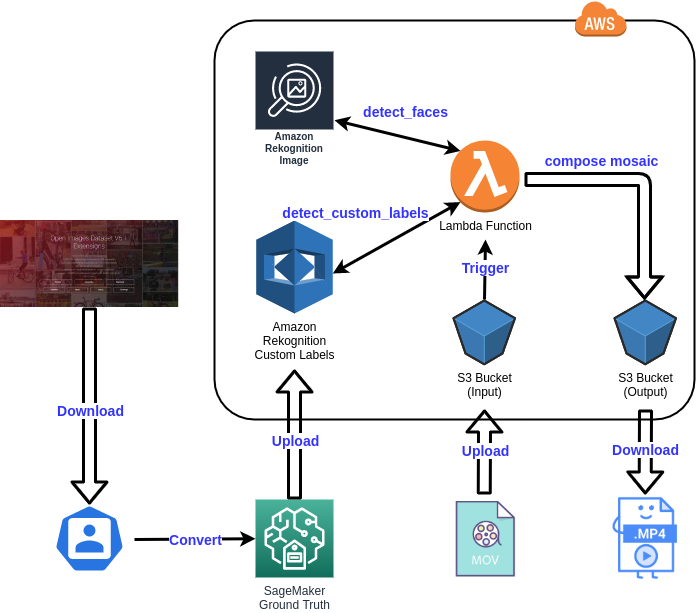
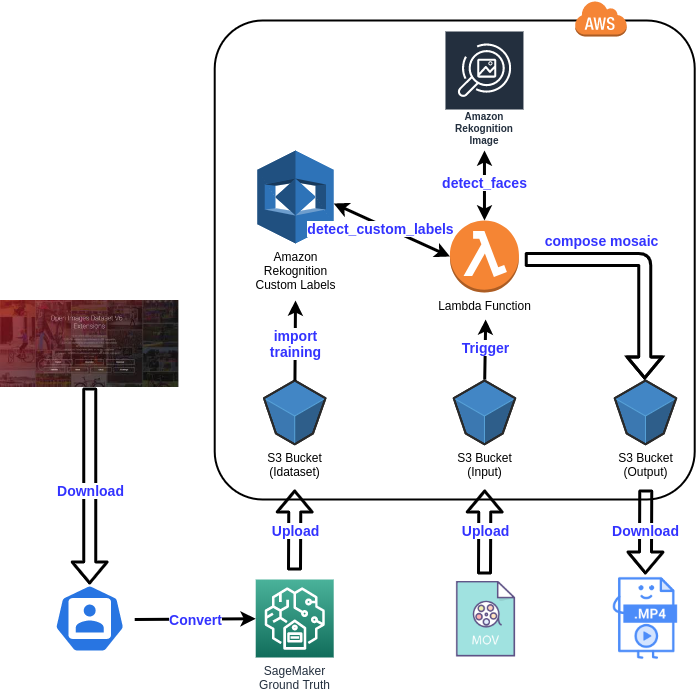
update figure

Changed region(s): [[0.3017, 0.0, 1.0, 0.9608], [0.0, 0.3409, 0.4828, 1.0], [0.3017, 0.062, 0.3319, 0.093]]

diff --git a/item_55928c185e989a9f1830/README.md b/item_55928c185e989a9f1830/README.md
@@ -39,12 +39,11 @@ Machine Learning, Deep Learning でいろんなことができそう！と思っ
 
 今回の全体像を示します。
 
-![Face and VehicleRegistrationPlates Detection Overview](https://qiita-image-store.s3.ap-northeast-1.amazonaws.com/0/244489/88bd27a9-499c-1fec-cb4e-6ee753f54e6e.png "Face and VehicleRegistrationPlates Detection Overview")
+![Face_and_VehicleRegistrationPlates_Detection_Overview.png](https://qiita-image-store.s3.ap-northeast-1.amazonaws.com/0/244489/08d27f95-b123-28f8-c2f3-8a3b64172d6a.png)
 
 次回から以下を１つ１つ説明する予定です。
 
-1. [Open Images Dataset V6 + Extensions][]から[Amazon SageMaker Ground Truth][]形式のデータセットを作成する
-    - T.B.D.
+1. [Open Images Dataset V6 + ExtensionsからAmazon SageMaker Ground Truth形式のデータセットを作成する](https://qiita.com/naomori/items/88fa381b1348100977ff)
 2. [Amazon Rekognition Custom Labels][]でカスタムモデルをトレーニングする
     - T.B.D.
 3. [AWS Lambda][]で[Amazon S3][]にアップロードされた動画を静止画にする
